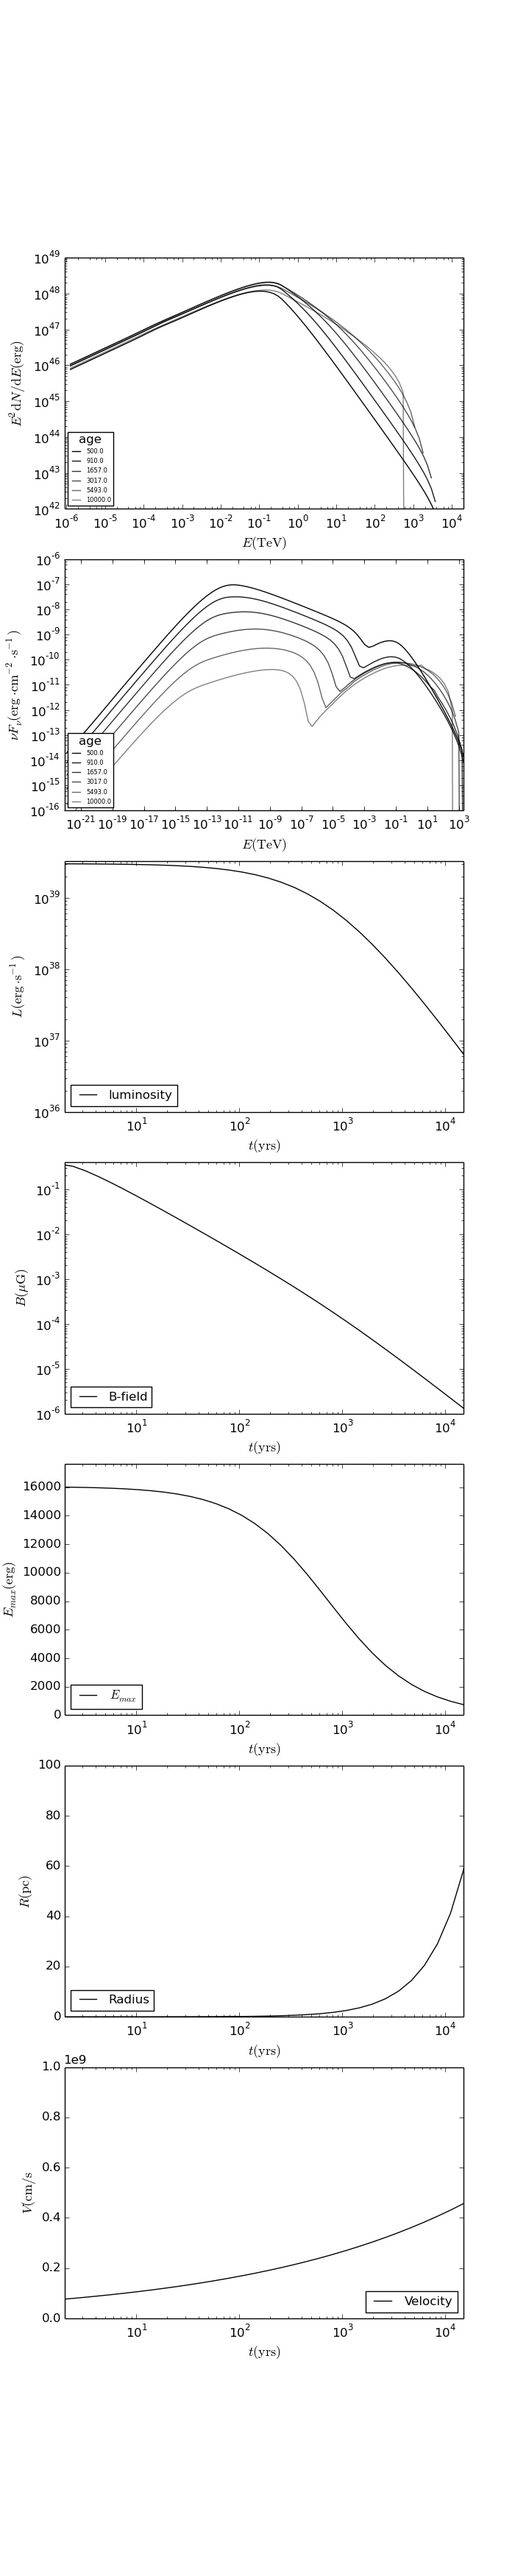
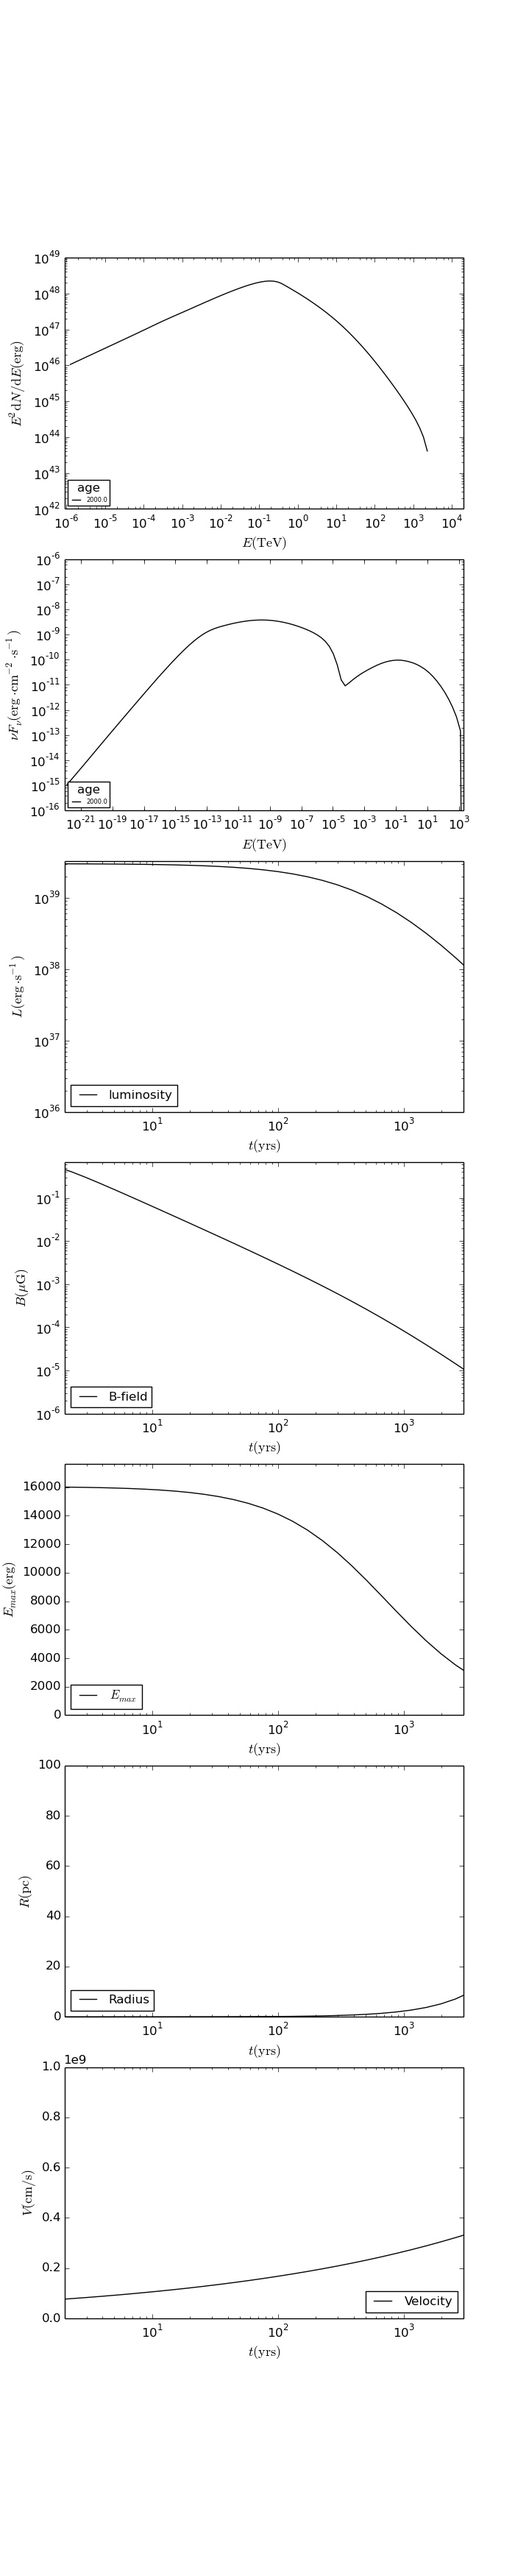
changed stuff in the tutorial section

diff --git a/docu/tutorial/TutorialLevel5.py b/docu/tutorial/TutorialLevel5.py
@@ -9,39 +9,28 @@ import math
 import matplotlib.pyplot as plt
 import ConfigParser
 
+global lum0, age, tc, mej, e0, etab, eps
+
 def CalculateTimeDependentStuff():
   t = np.logspace(0,math.log10(1.e6*age),80)
-  gammap = 1.3333;
+  gammap = 1.3333
   vej = math.sqrt(10.*e0/(3.*mej))
   c = math.pow((6./(15.*(gammap-1.)))+289./240.,-0.2);
-  lum=[]
-  emax=[]
-  r=[]
-  v=[]
-  b=[]
-  for i in t:
-    lum.append((1.-etab)*lum0*math.pow(1.+i/tc,-1.*(brind+1.)/(brind-1.)))
-    emax.append(3.*eps*gamerapy.el_charge*math.sqrt(etab*lum[len(lum)-1]/((1.-etab)*gamerapy.c_speed)))
-    r.append(c*math.pow(lum0*i*gamerapy.yr_to_sec/e0,0.2)*vej*i*gamerapy.yr_to_sec)
-    v.append(1.2*r[len(r)-1]/(gamerapy.yr_to_sec*i))
-  for i in xrange(len(t)):
-    bi=0.
-    ri=r[i]
-    if(i==0):
-      bi=0.
-    else:
-      for j in xrange(i):
-        if(j==0):
-          continue
-        bi = bi+etab*lum[j]*ri*gamerapy.yr_to_sec*(t[j]-t[j-1])
-    bi=math.sqrt(6.*bi/(ri*ri*ri*ri))
-    b.append(bi)
-  lum = np.array(zip(t,lum))
-  b = np.array(zip(t,b))
-  emax = np.array(zip(t,emax))
-  r = np.array(zip(t,r))
-  v = np.array(zip(t,v))
+
+  lum = (1.-etab)*lum0*(1.+t/tc)**(-1.*(brind+1.)/(brind-1.))
+  emax = 3.*eps*gamerapy.el_charge*np.sqrt(etab*lum/((1.-etab)*gamerapy.c_speed))
+  r = c*(lum0*t*gamerapy.yr_to_sec/e0)**0.2 * vej*t*gamerapy.yr_to_sec
+  v = 1.2*r/(gamerapy.yr_to_sec*t)
+  b = np.sqrt(gamerapy.yr_to_sec*etab*6./r**4 * np.concatenate(([0], ((lum * r)[1:] * np.diff(t)).cumsum())))
+
+  lum = np.vstack((t, lum)).T
+  b = np.vstack((t, b)).T
+  emax = np.vstack((t, emax)).T
+  r = np.vstack((t, r)).T
+  v = np.vstack((t, v)).T
+
   return lum, b, emax, r, v
+
 
 if __name__ == "__main__":
   # Read in parameter file
@@ -49,35 +38,35 @@ if __name__ == "__main__":
   configParser = ConfigParser.RawConfigParser()
   configParser.read(configFile)
 
-  f, (ax1, ax2, ax3, ax4, ax5, ax6, ax7) = plt.subplots(7, 1, sharey=False,figsize=(7, 35))  
-  global lum0, age, tc, mej, e0, etab, eps
-  lum0 = float(configParser.get('Parameters','InitialLuminosity'))
-  age = float(configParser.get('Parameters','Age'))
-  tc = float(configParser.get('Parameters','CharAge'))
-  dist = gamerapy.pc_to_cm*float(configParser.get('Parameters','Distance'))
-  dens = float(configParser.get('Parameters','AmbientDensity'))
-  tNIR = float(configParser.get('Parameters','tNIR'))
-  eNIR = gamerapy.TeV_to_erg*1.e-12*float(configParser.get('Parameters','edensNIR'))
-  tFIR = float(configParser.get('Parameters','tFIR'))
-  eFIR = gamerapy.TeV_to_erg*1.e-12*float(configParser.get('Parameters','edensFIR'))
-  ebins = float(configParser.get('Parameters','Ebins'))
-  emin = gamerapy.TeV_to_erg*float(configParser.get('Parameters','Emin'))
-  ebreak = gamerapy.TeV_to_erg*float(configParser.get('Parameters','Ebreak'))
-  spindlow = float(configParser.get('Parameters','SpectralIndexLow'))
-  spindhigh = float(configParser.get('Parameters','SpectralIndexHigh'))
-  mej = gamerapy.mSol*float(configParser.get('Parameters','Mej'))
-  e0 = float(configParser.get('Parameters','E0'))
-  etab = float(configParser.get('Parameters','etaB'))
-  eps = float(configParser.get('Parameters','epsilon'))
-  brind = float(configParser.get('Parameters','BrakingIndex'))
+  f, (ax1, ax2, ax3, ax4, ax5, ax6, ax7) = plt.subplots(7, 1, sharey=False,figsize=(7, 35))
+  lum0 = configParser.getfloat('Parameters','InitialLuminosity')
+  age = configParser.getfloat('Parameters','Age')
+  tc = configParser.getfloat('Parameters','CharAge')
+  dist = gamerapy.pc_to_cm*configParser.getfloat('Parameters','Distance')
+  dens = configParser.getfloat('Parameters','AmbientDensity')
+  tNIR = configParser.getfloat('Parameters','tNIR')
+  eNIR = gamerapy.TeV_to_erg*1.e-12*configParser.getfloat('Parameters','edensNIR')
+  tFIR = configParser.getfloat('Parameters','tFIR')
+  eFIR = gamerapy.TeV_to_erg*1.e-12*configParser.getfloat('Parameters','edensFIR')
+  ebins = configParser.getfloat('Parameters','Ebins')
+  emin = gamerapy.TeV_to_erg*configParser.getfloat('Parameters','Emin')
+  ebreak = gamerapy.TeV_to_erg*configParser.getfloat('Parameters','Ebreak')
+  spindlow = configParser.getfloat('Parameters','SpectralIndexLow')
+  spindhigh = configParser.getfloat('Parameters','SpectralIndexHigh')
+  mej = gamerapy.mSol*configParser.getfloat('Parameters','Mej')
+  e0 = configParser.getfloat('Parameters','E0')
+  etab = configParser.getfloat('Parameters','etaB')
+  eps = configParser.getfloat('Parameters','epsilon')
+  brind = configParser.getfloat('Parameters','BrakingIndex')
   outfile = configParser.get('Files','outfile')
 
   lumt,bt,emaxt,r,v = CalculateTimeDependentStuff()
-  fr = gamerapy.Radiation()
-  fp = gamerapy.Particles()
+
   fu = gamerapy.Utils()
   fu.DrawGamera()
+
   # set particle stuff
+  fp = gamerapy.Particles()
   fp.SetLuminosityLookup(lumt)
   fp.SetBFieldLookup(bt)
   fp.SetEmaxLookup(emaxt)
@@ -89,94 +78,81 @@ if __name__ == "__main__":
   fp.SetLowSpectralIndex(spindlow)
   fp.SetSpectralIndex(spindhigh)
   fp.SetEnergyBinsForNumericalSolver(ebins)
-#  fp.SetCriticalMinEnergyForGridSolver(1.e-2)
   fp.SetAge(age)
 
   # set radiation stuff
+  fr = gamerapy.Radiation()
   fr.SetDistance(dist)
   fr.AddThermalTargetPhotons(2.7,0.25*1.602*1.e-12)
   fr.AddThermalTargetPhotons(tFIR,eFIR)
   fr.AddThermalTargetPhotons(tNIR,eNIR)
   fr.SetAmbientDensity(fp.GetAmbientDensity())
-#  fr.SetSynchrotronEmissionModel(1)
+  fr.SetSynchrotronEmissionModel(1)
   fr.CreateICLossLookup()
   fp.SetICLossLookup(fr.GetICLossLookup())
 
-  # calculate stuff 
-  t = np.logspace(math.log10(2000.),math.log10(age),6)
-  n = 0
-  for i in t:
-    print i,n
-    fp.SetAge(i) 
-    fr.SetBField(fp.GetBField())
-    fp.CalculateParticleSpectrum("electrons")
-    fr.SetElectrons(fp.GetParticleSpectrum())
-    if(n!=0):
-      fr.RemoveLastICTargetPhotonComponent()
-    fr.AddSSCTargetPhotons(fp.GetRadius())
-    fr.CalculateDifferentialPhotonSpectrum()
-    ElectronSED = np.array(fr.GetElectronSED())
-    TotalSED = np.array(fr.GetTotalSED())
-    ICSED = np.array(fr.GetICSED())
-    BremsSED = np.array(fr.GetBremsstrahlungSED())
-    SynchSED = np.array(fr.GetSynchrotronSED())
-    ax1.plot(ElectronSED[:,0],ElectronSED[:,1],color='black',alpha=1.-n,label=str(round(i,0)))
-    ax2.plot(TotalSED[:,0],TotalSED[:,1],color='black',alpha=1.-n,label=str(round(i,0)))
-    n = n+0.1
+  # calculate stuff
+  fp.SetAge(age)
+  fr.SetBField(fp.GetBField())
+  fp.CalculateParticleSpectrum("electrons")
+  fr.SetElectrons(fp.GetParticleSpectrum())
+  fr.AddSSCTargetPhotons(fp.GetRadius())
+  fr.CalculateDifferentialPhotonSpectrum()
+  ElectronSED = np.array(fr.GetElectronSED())
+  TotalSED = np.array(fr.GetTotalSED())
+  ICSED = np.array(fr.GetICSED())
+  BremsSED = np.array(fr.GetBremsstrahlungSED())
+  SynchSED = np.array(fr.GetSynchrotronSED())
 
-
-  ax1.legend(title="age",prop={'size':6},loc="lower left")
-  ax2.legend(title="age",prop={'size':6},loc="lower left")
-
-  ## plot stuff ##
-  ax1.set_yscale("log")
-  ax1.set_xscale("log")
-  ax2.set_yscale("log")
-  ax2.set_xscale("log")  
-  ax3.set_yscale("log")
-  ax3.set_xscale("log")
-  ax4.set_yscale("log")
-  ax4.set_xscale("log")
-  ax5.set_xscale("log")
-  ax6.set_xscale("log")
-  ax7.set_xscale("log")
-  ax1.set_ylabel(r'$E^{2} \mathrm{d}N/\mathrm{d}E(\mathrm{erg})$', fontsize=13)
-  ax1.set_xlabel(r'$E (\mathrm{TeV})$', fontsize=13)
-  ax2.set_ylabel(r'$\nu F_{\nu}(\mathrm{erg} \cdot \mathrm{cm}^{-2} \cdot \mathrm{s}^{-1})$', fontsize=13)
-  ax2.set_xlabel(r'$E (\mathrm{TeV})$', fontsize=13)
-  ax3.set_ylabel(r'$L (\mathrm{erg} \cdot \mathrm{s}^{-1})$', fontsize=13)
-  ax3.set_xlabel(r'$t (\mathrm{yrs})$', fontsize=13)
-  ax4.set_ylabel(r'$B (\mu \mathrm{G})$', fontsize=13)
-  ax4.set_xlabel(r'$t (\mathrm{yrs})$', fontsize=13)
-  ax5.set_ylabel(r'$E_{max} (\mathrm{erg})$', fontsize=13)
-  ax5.set_xlabel(r'$t (\mathrm{yrs})$', fontsize=13)
-  ax6.set_ylabel(r'$R (\mathrm{pc})$', fontsize=13)
-  ax6.set_xlabel(r'$t (\mathrm{yrs})$', fontsize=13)
-  ax7.set_ylabel(r'$V (\mathrm{cm/s}$', fontsize=13)
-  ax7.set_xlabel(r'$t (\mathrm{yrs})$', fontsize=13)
+  # plot stuff
+  ax1.loglog(ElectronSED[:,0],ElectronSED[:,1],color='black',alpha=1.,label=str(age))
   ax1.set_xlim([0.7*min(ElectronSED[:,0]),2.e4])
   ax1.set_ylim([1.e42,1.e49])
+  ax1.legend(title="age",prop={'size':6},loc="lower left")
+  ax1.set_ylabel(r'$E^{2} \mathrm{d}N/\mathrm{d}E(\mathrm{erg})$', fontsize=13)
+  ax1.set_xlabel(r'$E (\mathrm{TeV})$', fontsize=13)
+  ax1.set_xlim([0.7*min(ElectronSED[:,0]),2.e4])
+
+  ax2.loglog(TotalSED[:,0],TotalSED[:,1],color='black',alpha=1.,label=str(age))
   ax2.set_xlim([0.7*min(TotalSED[:,0]),2.e3])
   ax2.set_ylim([1.e-16,1.e-6])
+  ax2.legend(title="age",prop={'size':6},loc="lower left")
+  ax2.set_ylabel(r'$\nu F_{\nu}(\mathrm{erg} \cdot \mathrm{cm}^{-2} \cdot \mathrm{s}^{-1})$', fontsize=13)
+  ax2.set_xlabel(r'$E (\mathrm{TeV})$', fontsize=13)
+
+  ax3.loglog(lumt[:,0],lumt[:,1],color='black',alpha=1.,label="luminosity")
   ax3.set_xlim([2.,1.5*age])
   ax3.set_ylim([1.e36,1.1*max(lumt[:,1])])
+  ax3.legend(prop={'size':12},loc="lower left")
+  ax3.set_ylabel(r'$L (\mathrm{erg} \cdot \mathrm{s}^{-1})$', fontsize=13)
+  ax3.set_xlabel(r'$t (\mathrm{yrs})$', fontsize=13)
+
+  ax4.loglog(bt[:,0],bt[:,1],color='black',alpha=1.,label="B-field")
   ax4.set_xlim([2.,1.5*age])
   ax4.set_ylim([1.e-6,1.1*max(bt[:,1])])
+  ax4.legend(prop={'size':12},loc="lower left")
+  ax4.set_ylabel(r'$B (\mu \mathrm{G})$', fontsize=13)
+  ax4.set_xlabel(r'$t (\mathrm{yrs})$', fontsize=13)
+
+  ax5.semilogx(emaxt[:,0],emaxt[:,1],color='black',alpha=1.,label=r'$E_{max}$')
+  ax5.legend(prop={'size':12},loc="lower left")
   ax5.set_xlim([2.,1.5*age])
   ax5.set_ylim([0.7*min(emaxt[:,1]),1.1*max(emaxt[:,1])])
+  ax5.set_ylabel(r'$E_{max} (\mathrm{erg})$', fontsize=13)
+  ax5.set_xlabel(r'$t (\mathrm{yrs})$', fontsize=13)
+
+  ax6.semilogx(r[:,0],r[:,1]/gamerapy.pc_to_cm,color='black',alpha=1.,label="Radius")
   ax6.set_xlim([2.,1.5*age])
   ax6.set_ylim([0.,100])
+  ax6.legend(prop={'size':12},loc="lower left")
+  ax6.set_ylabel(r'$R (\mathrm{pc})$', fontsize=13)
+  ax6.set_xlabel(r'$t (\mathrm{yrs})$', fontsize=13)
+
+  ax7.semilogx(v[:,0],v[:,1],color='black',alpha=1.,label="Velocity")
   ax7.set_xlim([2.,1.5*age])
   ax7.set_ylim([0.,1.e9])
-  ax3.plot(lumt[:,0],lumt[:,1],color='black',alpha=1.,label="luminosity")
-  ax3.legend(prop={'size':12},loc="lower left")
-  ax4.plot(bt[:,0],bt[:,1],color='black',alpha=1.,label="B-field")
-  ax4.legend(prop={'size':12},loc="lower left")
-  ax5.plot(emaxt[:,0],emaxt[:,1],color='black',alpha=1.,label=r'$E_{max}$')
-  ax5.legend(prop={'size':12},loc="lower left")
-  ax6.plot(r[:,0],r[:,1]/gamerapy.pc_to_cm,color='black',alpha=1.,label="Radius")
-  ax6.legend(prop={'size':12},loc="lower left")
-  ax7.plot(v[:,0],v[:,1],color='black',alpha=1.,label="Velocity")
   ax7.legend(prop={'size':12},loc="lower right")
-  f.savefig(outfile)
+  ax7.set_ylabel(r'$V (\mathrm{cm/s})$', fontsize=13)
+  ax7.set_xlabel(r'$t (\mathrm{yrs})$', fontsize=13)
 
+  f.savefig(outfile)

diff --git a/docu/tutorial/TutorialLevel3.py b/docu/tutorial/TutorialLevel3.py
@@ -12,13 +12,9 @@ import ConfigParser
 def GetPulsarSpindown(tc, age, l0):
 
   t = np.logspace(0,math.log10(1.e6*age),300)
-  puls = []
-  n = 0
-  for i in t:
-    puls.append([])
-    puls[n].append(i)
-    puls[n].append(l0/math.pow(1.+i/tc,2.))
-    n = n+1
+  puls = l0/(1.+t/tc)**2
+  
+  puls = np.vstack((t, puls)).T
   return puls
 
 if __name__ == "__main__":
@@ -38,7 +34,6 @@ if __name__ == "__main__":
   ebins = float(configParser.get('Parameters','Ebins'))
   emax = gamerapy.TeV_to_erg*float(configParser.get('Parameters','Emax'))
   emin = gamerapy.TeV_to_erg*float(configParser.get('Parameters','Emin'))
-  print emin
   spind = float(configParser.get('Parameters','SpectralIndex'))
   outfile = configParser.get('Files','outfile')
 
@@ -77,7 +72,7 @@ if __name__ == "__main__":
   ICSED = np.array(fr.GetICSED())
   BremsSED = np.array(fr.GetBremsstrahlungSED())
   SynchSED = np.array(fr.GetSynchrotronSED())
-  print emin,0.7*min(ElectronSED[:,0]),1.5*max(ElectronSED[:,0])
+
   ## plot stuff ##
   f, (ax1, ax2, ax3) = plt.subplots(3, 1, sharey=False,figsize=(7, 15))  
   ax1.set_yscale("log")

diff --git a/docu/sphinx/source/tutorial_static_sc_simple.rst b/docu/sphinx/source/tutorial_static_sc_simple.rst
@@ -73,6 +73,11 @@ Now, let's discuss the individual commands:
    - ``SetSSCTargetPhotons``: Add source's own emission spectrum as a target 
      field. Works only if a source extension is available.
 
+.. warning::
+
+   At the moment, the ``ImportTargetPhotonsFromFile`` is not available in the
+   python package!
+
 - calculate the spectrum
 
 .. sourcecode:: C++

diff --git a/docu/sphinx/source/installation.rst b/docu/sphinx/source/installation.rst
@@ -76,6 +76,10 @@ You need to add the directory holding the module (default: ``./lib``) to the sea
    import os
    sys.path.append(os.path.abspath('./lib'))
 
+.. warning:: 
+
+  Currently, ``GAMERA`` doesn't work with ``python3``, use ``python2`` instead!
+
 
 
 

diff --git a/README.md b/README.md
@@ -29,3 +29,4 @@ will generate a shared object (lib/libgamera.so) as well as the python module
 (lib/_gamerapy.so , lib/gamerapy.py).
 
 
+
